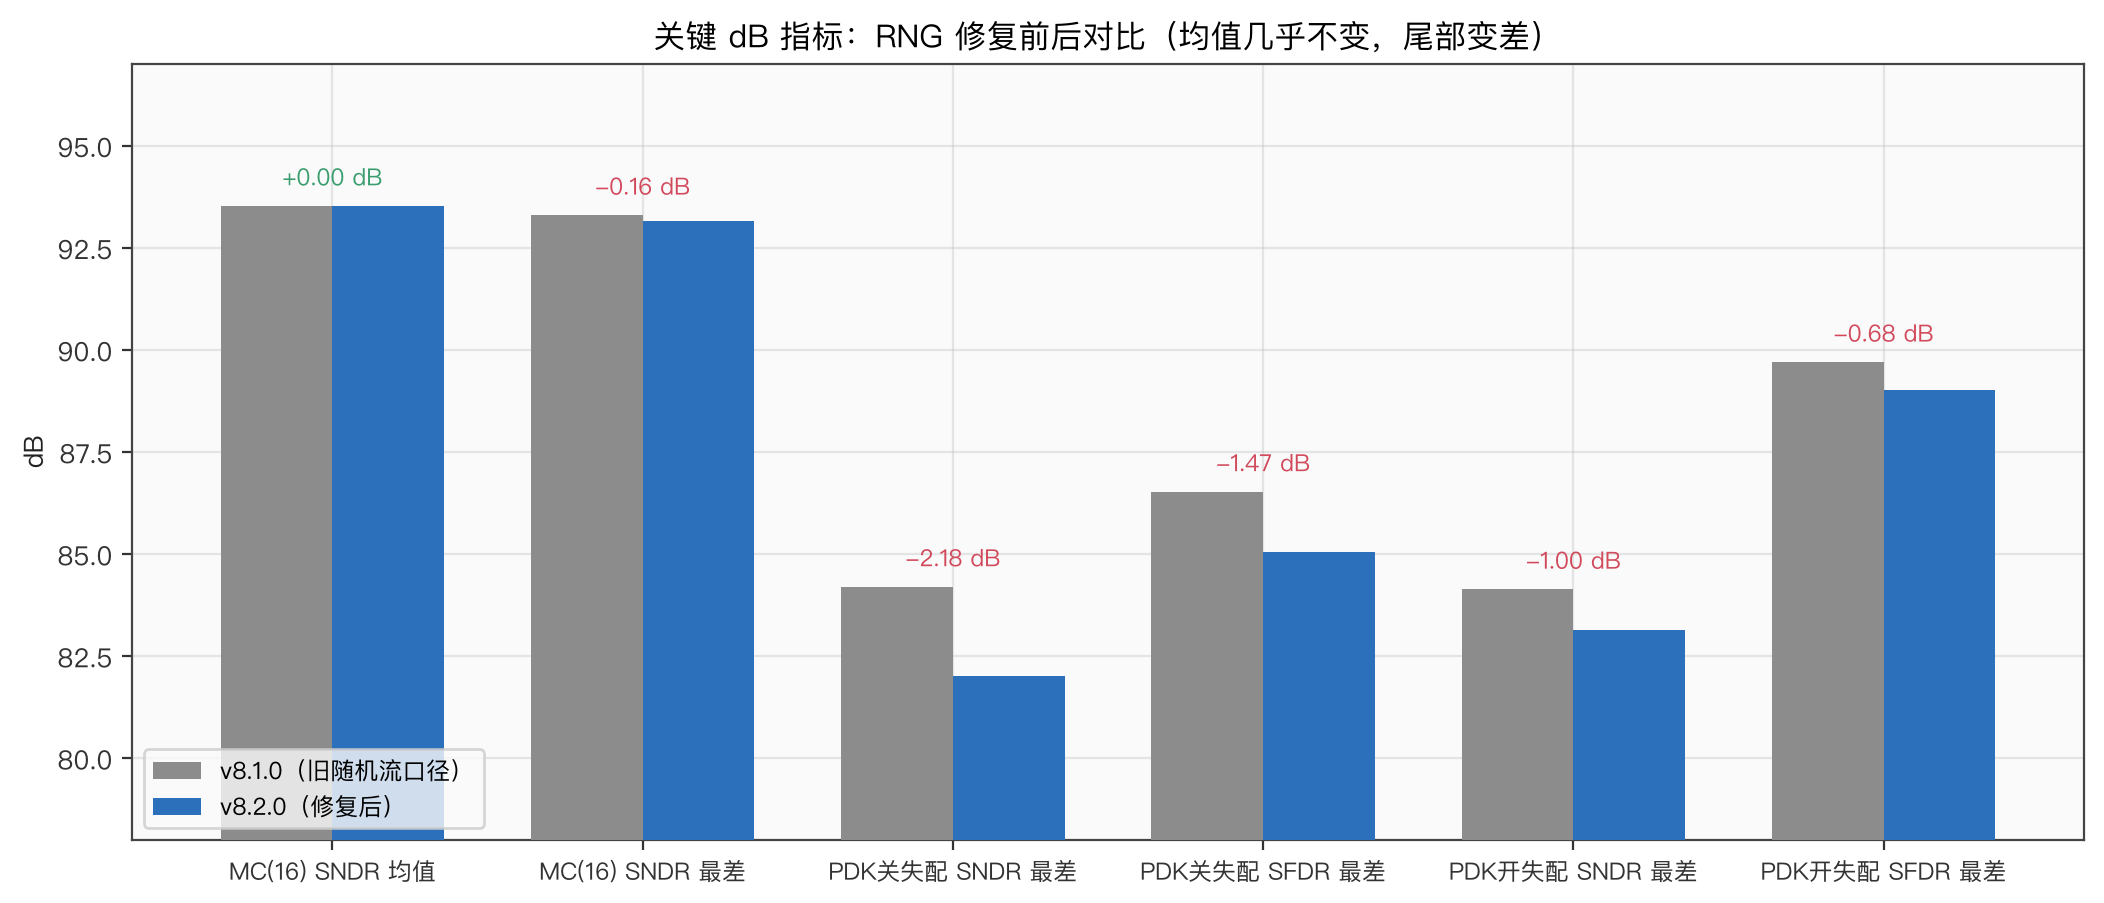
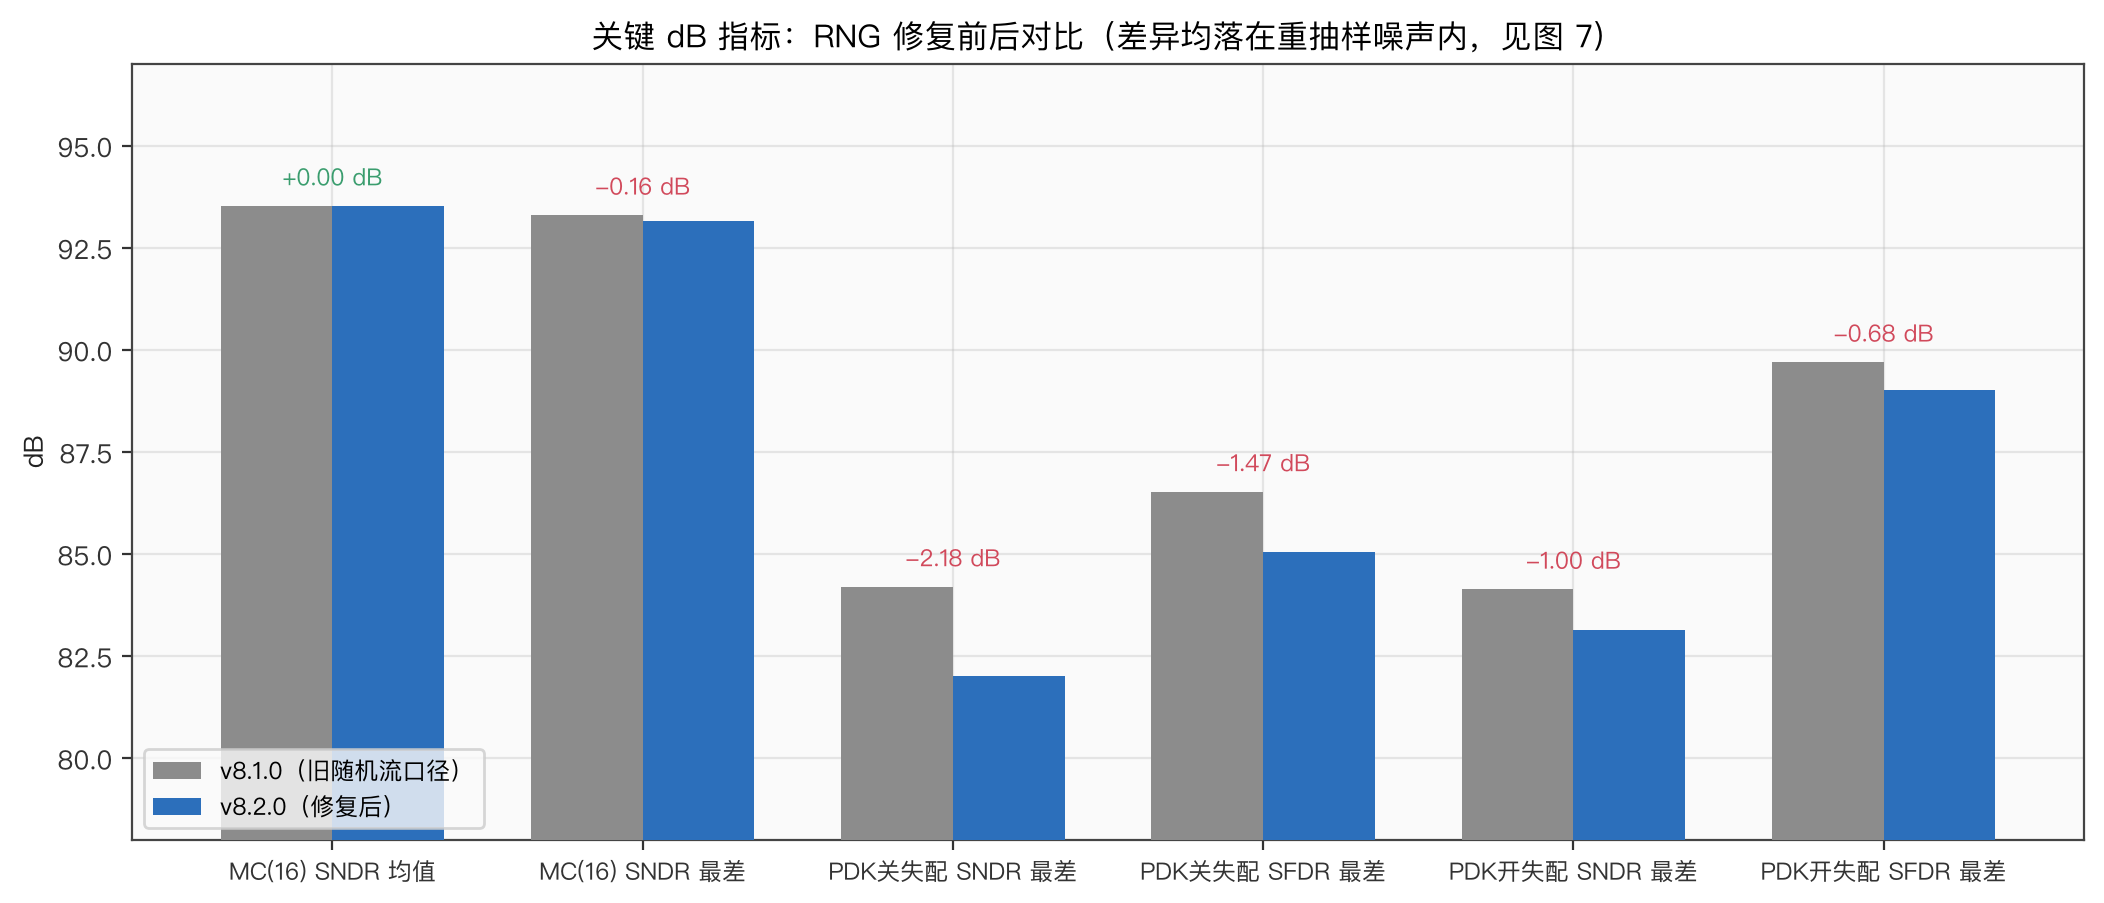
fix(docs): correct a post-release over-claim about the v8.2.0 numerical deltas
Correction, not a silent rewrite. The v8.2.0 notes (CHANGELOG, both READMEs, the
GitHub release body) claimed the RNG-independence fix had moved the MC/yield
numbers: "the old coupled seeding understated the tail", "the PDK-off worst chip
drops 84.20 -> 82.02 dB, a more honest lower bound". Those deltas are real, but
the INTERPRETATION was not tested before publishing, and it does not survive one.

What was actually done:
- A bootstrap significance test on the per-chip SNDR (20,000 resamples; new
  chart 7 + docs/release_v8.2.0/significance.json) pools the old and new samples
  and re-draws n chips twice, giving the null distribution of delta-worst-chip
  and delta-sigma under "just a different random draw".
- All 10 statistics (5 sections x {delta-min, delta-sigma}) fall INSIDE the 95%
  null band, |z| <= 1.44. For mc_pdk_off the observed delta-min is -2.18 dB
  against a +/-3.22 dB null band.
- At n=16 / n=60 the worst chip and the sample sigma are high-variance statistics.
  The v8.1.0 and v8.2.0 MC/yield conclusions therefore do not contradict each
  other: the visible differences are indistinguishable from resampling noise.

Corrected framing now used everywhere: the fix is justified by the CODE-LEVEL
defect (one integer seed seeding both the mismatch draw and the noise rng, with
probe-verified stream identity), which is a methodological defect removal that
does not need the output numbers to "prove" it. And an explicit applicability
[…]

Changed region(s): [[0.278, 0.0, 0.7723, 0.062]]

diff --git a/docs/release_v8.2.0/make_delta_charts.py b/docs/release_v8.2.0/make_delta_charts.py
@@ -164,7 +164,7 @@ def chart_headline_compare() -> None:
     ax.set_ylim(78, 97)
     ax.set_ylabel("dB")
     ax.legend(fontsize=8.6, loc="lower left")
-    ax.set_title("关键 dB 指标：RNG 修复前后对比（均值几乎不变，尾部变差）")
+    ax.set_title("关键 dB 指标：RNG 修复前后对比（差异均落在重抽样噪声内，见图 7）")
     fig.tight_layout()
     fig.savefig(FIG / "headline_compare.png", bbox_inches="tight")
     plt.close(fig)
@@ -204,9 +204,7 @@ def chart_mc_distribution() -> None:
         ax.set_title(
             f"{title}\nσ {o.std(ddof=1):.3f} → {n.std(ddof=1):.3f} dB，最差 {o.min():.2f} → {n.min():.2f} dB"
         )
-    fig.suptitle(
-        "逐芯片 SNDR 分布：修复后系综离散度变大、最差芯片下探（旧口径低估了离散度）", y=1.03
-    )
+    fig.suptitle("逐芯片 SNDR 分布：修复前后对比（可见差异与重抽样噪声同量级，见图 7）", y=1.03)
     fig.tight_layout()
     fig.savefig(FIG / "mc_distribution.png", bbox_inches="tight")
     plt.close(fig)
@@ -390,6 +388,106 @@ def chart_probe_effects() -> None:
     plt.close(fig)
 
 
+# --------------------------------------------------------------- 显著性检验
+def bootstrap_significance(n_boot: int = 20000, seed: int = 20260925) -> dict:
+    """自助法：Δ(最差芯片) 与 Δ(标准差) 能否与「纯粹重抽样噪声」区分开？
+
+    零假设：新旧两批逐颗 SNDR 来自同一分布，把两批合并成池，各自独立重抽 n 颗，
+    看 Δ 的零分布。若实测 Δ 落在零分布的 95% 区间内，则**不能**把该 Δ 归因于修复。
+
+    为什么必须做这一步：n=16 / n=60 时「最差一颗」与「样本标准差」本身就是高方差
+    统计量（系综 σ 约 0.09–1.7 dB，最差一颗的抽样 sd 可达 0.06–1.64 dB）。
+    不做检验就写「良率下界下降 / 旧口径低估了尾部」，是把抽样噪声当成了修复效应。
+    """
+    rng = np.random.default_rng(seed)
+    out: dict = {}
+    for sec in ("mc", "mc_cal_off", "mc_cal_on", "mc_pdk_off", "mc_pdk_on"):
+        a = np.asarray(BASE[sec]["sndr_per_chip"], dtype=float)
+        b = np.asarray(NEW[sec]["sndr_per_chip"], dtype=float)
+        n = a.size
+        pool = np.concatenate([a, b])
+        draws = pool[rng.integers(0, pool.size, size=(n_boot, 2, n))]
+        rec: dict = {"n": int(n)}
+        for name, fn in (
+            ("min", lambda x: x.min(axis=1)),
+            ("std", lambda x: x.std(axis=1, ddof=1)),
+        ):
+            null = fn(draws[:, 1, :]) - fn(draws[:, 0, :])
+            obs = float(fn(b[None, :])[0]) - float(fn(a[None, :])[0])
+            lo, hi = (float(v) for v in np.percentile(null, [2.5, 97.5]))
+            sd = float(null.std())
+            rec[name] = {
+                "obs": obs,
+                "null_sd": sd,
+                "lo": lo,
+                "hi": hi,
+                "z": obs / sd if sd > 0 else float("nan"),
+                "outside": bool(obs < lo or obs > hi),
+            }
+        out[sec] = rec
+    return out
+
+
+def chart_significance(sig: dict) -> None:
+    """图 7：自助法零分布 vs 实测 Δ —— 可见差异无法与抽样噪声区分。"""
+    secs = list(sig)
+    fig, axes = plt.subplots(1, 2, figsize=(11.6, 4.3))
+    for ax, key, title in (
+        (axes[0], "min", "Δ 最差芯片 SNDR"),
+        (axes[1], "std", "Δ 逐颗 SNDR 标准差"),
+    ):
+        for i, sec in enumerate(secs):
+            r = sig[sec][key]
+            half = 1.96 * r["null_sd"]
+            ax.plot(
+                [-half, half],
+                [i, i],
+                color=C_OLD,
+                lw=7,
+                alpha=0.30,
+                solid_capstyle="butt",
+                zorder=2,
+                label="零分布 95% 区间（重抽样噪声）" if i == 0 else None,
+            )
+            inside = not r["outside"]
+            ax.plot(
+                [r["obs"]],
+                [i],
+                "o",
+                ms=8.5,
+                color=C_OLD if inside else C_NEW,
+                zorder=4,
+                label=(
+                    "实测 Δ（区间内，不可归因于修复）"
+                    if inside
+                    else "实测 Δ（区间外，可能是真实效应）"
+                )
+                if i == 0
+                else None,
+            )
+        ax.axvline(0.0, color=C_INK, lw=1.0, ls="--", zorder=1)
+        ax.set_yticks(np.arange(len(secs)))
+        ax.set_yticklabels(secs, fontsize=9)
+        ax.set_xlabel("Δ SNDR（dB）")
+        ax.set_title(title, fontsize=10.5)
+        ax.set_axisbelow(True)
+    axes[0].legend(fontsize=7.4, loc="lower left", framealpha=0.92)
+    fig.suptitle(
+        "图 7｜自助法检验：全部 10 项实测 Δ 均落在重抽样零分布的 95% 区间内\n"
+        "在 n=16 / n=60 下，可见的数值差异与「纯粹换一批随机数」无法区分",
+        fontsize=10.6,
+        y=1.07,
+    )
+    fig.tight_layout()
+    fig.savefig(FIG / "significance_null.png", dpi=170, bbox_inches="tight")
+    plt.close(fig)
+
+
+SIG = bootstrap_significance()
+(FIG.parent / "significance.json").write_text(
+    json.dumps(SIG, ensure_ascii=False, indent=1), encoding="utf-8"
+)
+
 for fn in (
     chart_delta_map,
     chart_headline_compare,
@@ -400,4 +498,6 @@ for fn in (
 ):
     fn()
     print("OK:", fn.__name__)
+chart_significance(SIG)
+print("OK: chart_significance")
 print("figures written to", FIG)

diff --git a/CHANGELOG.md b/CHANGELOG.md
@@ -82,7 +82,7 @@ adheres to [Semantic Versioning](https://semver.org/spec/v2.0.0.html).
 48 个改变叶子**全部落在 RNG 相关分区**（mc/mc_cal_*/mc_pdk_*/budget/s13），无一落在
 确定性链路 —— 与"只有 F1/F2/F9 是 active 修复"的判定互相印证。
 
-### 关键指标变化（诚实口径：PDK 良率下界下降）
+### 关键指标变化（附显著性检验：**可见差异不可归因于修复**）
 
 | 指标 | v8.1.0 | v8.2.0 | Δ |
 | :--- | ---: | ---: | ---: |
@@ -90,7 +90,7 @@ adheres to [Semantic Versioning](https://semver.org/spec/v2.0.0.html).
 | MC(16) SNDR 均值 | 93.52634 dB | 93.52646 dB | +0.0001 |
 | MC(16) SNDR std | 0.1133 dB | 0.1374 dB | +0.0241 |
 | MC(16) SNDR 最差 | 93.3000 dB | 93.1420 dB | −0.1580 |
-| **PDK_off（60 颗）SNDR 最差** | **84.1978 dB** | **82.0201 dB** | **−2.1776** |
+| PDK_off（60 颗）SNDR 最差 | 84.1978 dB | 82.0201 dB | −2.1776 |
 | PDK_off SFDR 最差 | 86.5257 dB | 85.0516 dB | −1.4741 |
 | PDK_on SNDR 最差 | 84.1371 dB | 83.1357 dB | −1.0014 |
 | s13[数字串扰(共模+单位)] SNDR | 91.8290 dB | 91.8090 dB | −0.0200 |
@@ -98,10 +98,38 @@ adheres to [Semantic Versioning](https://semver.org/spec/v2.0.0.html).
 | s13[全部开启] SNDR | 90.5555 dB | 90.5418 dB | −0.0136 |
 | s13[全部开启] INL_max | 6.1467 LSB20 | 6.3947 LSB20 | +0.2480 |
 
-> **必须明说**：旧口径下失配与噪声共用种子，把两条误差源的独立随机性**人为削弱**了，
-> MC 离散度（std）偏小、良率下界偏乐观。修正后 PDK_off 最差芯片 SNDR 下移 **2.18 dB**
-> 至 82.0 dB —— 这是**更诚实的下界**，不是回归（回归是指应当不变的东西变了；这里
-> 变的正是我们已声明会变、且本该独立的那部分）。
+**但这些 Δ 一个都不能当作"修复的效果"。** 自助法检验（`significance.json`，图 7，
+20 000 次重抽样）把新旧两批逐颗 SNDR 合并成池、各自独立重抽 n 颗，得到 Δ 的零分布
+（"纯粹换一批随机数"能造成多大差异）：
+
+| 分区 | n | Δ 最差芯片 | 零分布 95% 带宽 | z |
+| :--- | ---: | ---: | ---: | ---: |
+| mc | 16 | −0.1580 dB | ±0.2989 | −1.04 |
+| mc_cal_off | 60 | −0.1914 dB | ±0.2735 | −1.37 |
+| mc_cal_on | 60 | −0.0524 dB | ±0.1197 | −0.86 |
+| mc_pdk_off | 60 | −2.1776 dB | ±3.2233 | −1.32 |
+| mc_pdk_on | 60 | −1.0014 dB | ±1.3623 | −1.44 |
+
+**10 项检验（5 个分区的 Δmin 与 Δσ）全部落在零分布的 95% 区间内**（|z| ≤ 1.44）。
+即：在 n=16 / n=60 下，"最差一颗"与"样本标准差"本身就是高方差统计量，
+上述可见变化**与"只是换了一批随机数"无法区分**。
+
+因此本版的诚实结论是：
+
+- **修复的正确性不由这些数字支撑，而由代码级缺陷本身支撑**（同一整数种子播种两条流，
+  探针可复现地证实流重合）——这是一个**方法学缺陷的移除**，不需要靠输出数字来"证明"。
+- **修复没有可检测地改变任何统计结论**。MC 与良率指标在这些样本量下由抽样噪声主导，
+  v8.1.0 与 v8.2.0 的 MC/良率结论**互不矛盾**，既不能据此宣称良率变差，也不能宣称变好。
+- **适用域边界**：若要用 MC 指标分辨量级 ~0.2 dB（pdk_off 的 Δmin）的差异，按零分布
+  带宽 ~3.2 dB 反推需把芯片数提高约 $(3.2/0.2)^2\approx 250$ 倍；本仓库的 16/60 颗
+  系综**没有**这个分辨力。**不要**拿本文的 MC 极值做良率论断。
+
+> **发布后更正（2026-09-25，同一日）**：本段初版写作"旧口径低估了尾部、PDK 良率下界
+> 下移 2.18 dB 是更诚实的下界"，并且 `README` 两版与 GitHub Release notes 同此措辞。
+> 该措辞**过度解读**——它把一个落在抽样噪声内的差异当成了修复效应，而当时并未做显著
+> 性检验。发现后已改为上面的口径，并补做自助法检验（图 7 / `significance.json`）。
+> 已发布的 tag `v8.2.0` **不追改**（不移动已发布 tag）；本更正落在后续提交与 Release
+> notes 中，差异可见、无静默改写。
 
 ### Added
 
@@ -109,8 +137,9 @@ adheres to [Semantic Versioning](https://semver.org/spec/v2.0.0.html).
   F9/N2 用**独立重算 + 可区分性断言**（`assert not np.isclose(expect[0], rounded[0])`），
   F11 用可手算核对的精确解 `[0.2, 0.4]`（`w₀+2w₁=1` 上的最小范数点），F12 钉住
   非退化窗口的精确位数 18.841282446503264 bit —— 不是"能跑就算过"。
-- `docs/release_v8.2.0/make_delta_charts.py` 与 `docs/release_v8.2.0/fig/`：6 张数据对比图
-  （逐叶子变更图、关键指标对比、MC 分布箱线、新旧 RNG 散点、22 项发现矩阵、探针效应）。
+- `docs/release_v8.2.0/make_delta_charts.py` 与 `docs/release_v8.2.0/fig/`：**7 张**数据对比图
+  （逐叶子变更图、关键指标对比、MC 分布箱线、新旧 RNG 散点、22 项发现矩阵、探针效应、
+  **自助法显著性检验**）+ `significance.json`（全部 10 项检验的零分布与实测 Δ）。
 
 ## [8.1.0] — 2026-09-24
 

diff --git a/README_EN.md b/README_EN.md
@@ -15,9 +15,15 @@ backend ranges remain explicitly assumed implementations.
 
 8.1.0 adds the digital-side fixed-point RTL (P0-P3): a synthesizable calibration core, dual SAR with a shared 3-bit Flash, 18-slice scheduling, Verilator simulation and mutation-testing gates. Behavioral `results.json` stays byte-identical to v8.0.0.
 
-8.2.0 fixes two statistical-integrity defects and hardens the entry guards. (i) The MC loops shared one integer seed between the mismatch draw and the noise realisation, so the noise stream replayed the mismatch values (probe-verified: the two streams draw the same numbers - the stream coincided, the per-chip spread did not collapse); mismatch and noise now use independent `SeedSequence.spawn` streams. (ii) The unit-crosstalk activity is now A(k)/2 consistently with `_dem_fluctuation` (fractional units, prefix-sum interpolation). The reference output was regenerated and reconciled leaf by leaf: **878 of 926 leaves are byte-identical, and all 48 changed leaves sit in RNG-dependent sections** (`mc`, `mc_cal_*`, `mc_pdk_*`, `budget`, `s13`). The ensemble mean is unchanged (93.5263 to 93.5265 dB) while the spread and the worst chip move as expected (sigma 0.113 to 0.137 dB; worst PDK-off SNDR 84.20 to 82.02 dB) - the old seed coupling understated the tail. See the [CHANGELOG](CHANGELOG.md) for the byte accounting and [docs/release_v8.2.0](docs/release_v8.2.0/) for the comparison charts.
+8.2.0 fixes two statistical-integrity defects and hardens the entry guards. (i) The MC loops shared one integer seed between the mismatch draw and the noise realisation, so the two streams drew the same values (probe-verified: the stream coincided, the per-chip spread did not collapse); mismatch and noise now use independent `SeedSequence.spawn` streams. (ii) The unit-crosstalk activity is now A(k)/2 consistently with `_dem_fluctuation` (fractional units, prefix-sum interpolation). The reference output was regenerated and reconciled leaf by leaf: **878 of 926 leaves are byte-identical, and all 48 changed leaves sit in RNG-dependent sections** (`mc`, `mc_cal_*`, `mc_pdk_*`, `budget`, `s13`) - which makes "only F1/F2/F9 are active fixes" a measured result rather than a claim.
+
+> **The numerical deltas cannot be attributed to the fix.** A bootstrap test on the per-chip SNDR (20,000 resamples, chart 7) puts **all 10 statistics - delta-worst-chip and delta-sigma across 5 sections - inside the 95% null band** (|z| <= 1.44). At n=16 / n=60 the MC and yield metrics are sampling-noise dominated, so the v8.1.0 and v8.2.0 MC conclusions **do not contradict each other**. The case for the fix rests on the **code-level defect** (one integer seed seeding both streams, reproducible by probe), not on these outputs. **Do not** read the MC extremes of this model as yield claims.
+
+Byte accounting and the significance test are in the [CHANGELOG](CHANGELOG.md); the 7 comparison charts and `significance.json` are in [docs/release_v8.2.0](docs/release_v8.2.0/).
 
 ![v8.1.0 to v8.2.0 headline metric comparison](docs/release_v8.2.0/fig/headline_compare.png)
+
+![Bootstrap test: all 10 deltas inside the 95% resampling null band](docs/release_v8.2.0/fig/significance_null.png)
 
 
 ## Results at a glance (v8.2.0)

diff --git a/README.md b/README.md
@@ -16,9 +16,15 @@ v8.0.0 把物理 slice 池、交织预跟踪、辅助输入、参考/RA/ADC2 联
 8.1.0 新增数字侧定点 RTL（P0–P3）：可综合校准核、双 SAR/共享 3-bit Flash、18-slice 调度、
 Verilator 仿真与变异测试门禁——行为级 results.json 数值与 v8.0.0 逐字节一致。
 
-8.2.0 修正两处**统计独立性/口径**缺陷并加厚入口防护：MC 循环里失配抽签与噪声 rng 此前由**同一整数种子**播种（实测两者取到**同一批随机数**、流完全重合；注意是流重合而非芯片退化——逐颗 SNDR 仍有离散），现改为 `SeedSequence.spawn` 独立子流；单位串扰翻转口径统一为 A(k)/2（与 `_dem_fluctuation` 的小数插值一致）。参考输出随之重算并逐项对账：**926 个叶子中 878 个逐字节不变，48 个变化全部落在随机流相关分区**（`mc`/`mc_cal_*`/`mc_pdk_*`/`budget`/`s13`）——均值几乎不变（93.5263 → 93.5265 dB），而系综离散度与最差芯片如预期变大（σ 0.113 → 0.137 dB；PDK 关失配最差 SNDR 84.20 → 82.02 dB），即旧口径**低估了尾部**。字节账见 [CHANGELOG](CHANGELOG.md)，图表与对账报告见 [docs/release_v8.2.0](docs/release_v8.2.0/)。
+8.2.0 修正两处**统计独立性/口径**缺陷并加厚入口防护：MC 循环里失配抽签与噪声 rng 此前由**同一整数种子**播种（实测两者取到**同一批随机数**、流完全重合；注意是流重合而非芯片退化——逐颗 SNDR 仍有离散），现改为 `SeedSequence.spawn` 独立子流；单位串扰翻转口径统一为 A(k)/2（与 `_dem_fluctuation` 的小数插值一致）。参考输出随之重算并逐项对账：**926 个叶子中 878 个逐字节不变，48 个变化全部落在随机流相关分区**（`mc`/`mc_cal_*`/`mc_pdk_*`/`budget`/`s13`）——"只有 F1/F2/F9 是 active 修复"由此成为**实测结论**而非声称。
+
+> **数值差异不可归因于修复**：对逐颗 SNDR 做自助法检验（20 000 次重抽样，图 7）后，5 个分区的 **Δ 最差芯片与 Δ 标准差共 10 项全部落在零分布的 95% 区间内**（|z| ≤ 1.44）。即 n=16 / n=60 下，MC 与良率指标由抽样噪声主导，v8.1.0 与 v8.2.0 的 MC 结论**互不矛盾**。修复的正确性由**代码级缺陷本身**支撑（两条流被同一整数种子播种，探针可复现），不靠输出数字。**不要**拿本模型的 MC 极值做良率论断。
+
+字节账与显著性检验见 [CHANGELOG](CHANGELOG.md)，7 张对比图与 `significance.json` 见 [docs/release_v8.2.0](docs/release_v8.2.0/)。
 
 ![v8.1.0 → v8.2.0 关键指标对比](docs/release_v8.2.0/fig/headline_compare.png)
+
+![自助法检验：全部 10 项 Δ 落在重抽样零分布 95% 区间内](docs/release_v8.2.0/fig/significance_null.png)
 
 与 v7.0.10 聚合基线做 `results.json` 逐项对账：**626 个共有指标中 516 个完全一致**，
 40 个为浮点级噪声（<1e-6 相对），**70 个实质变化**全部集中在物理主链路新覆盖的子系统；
